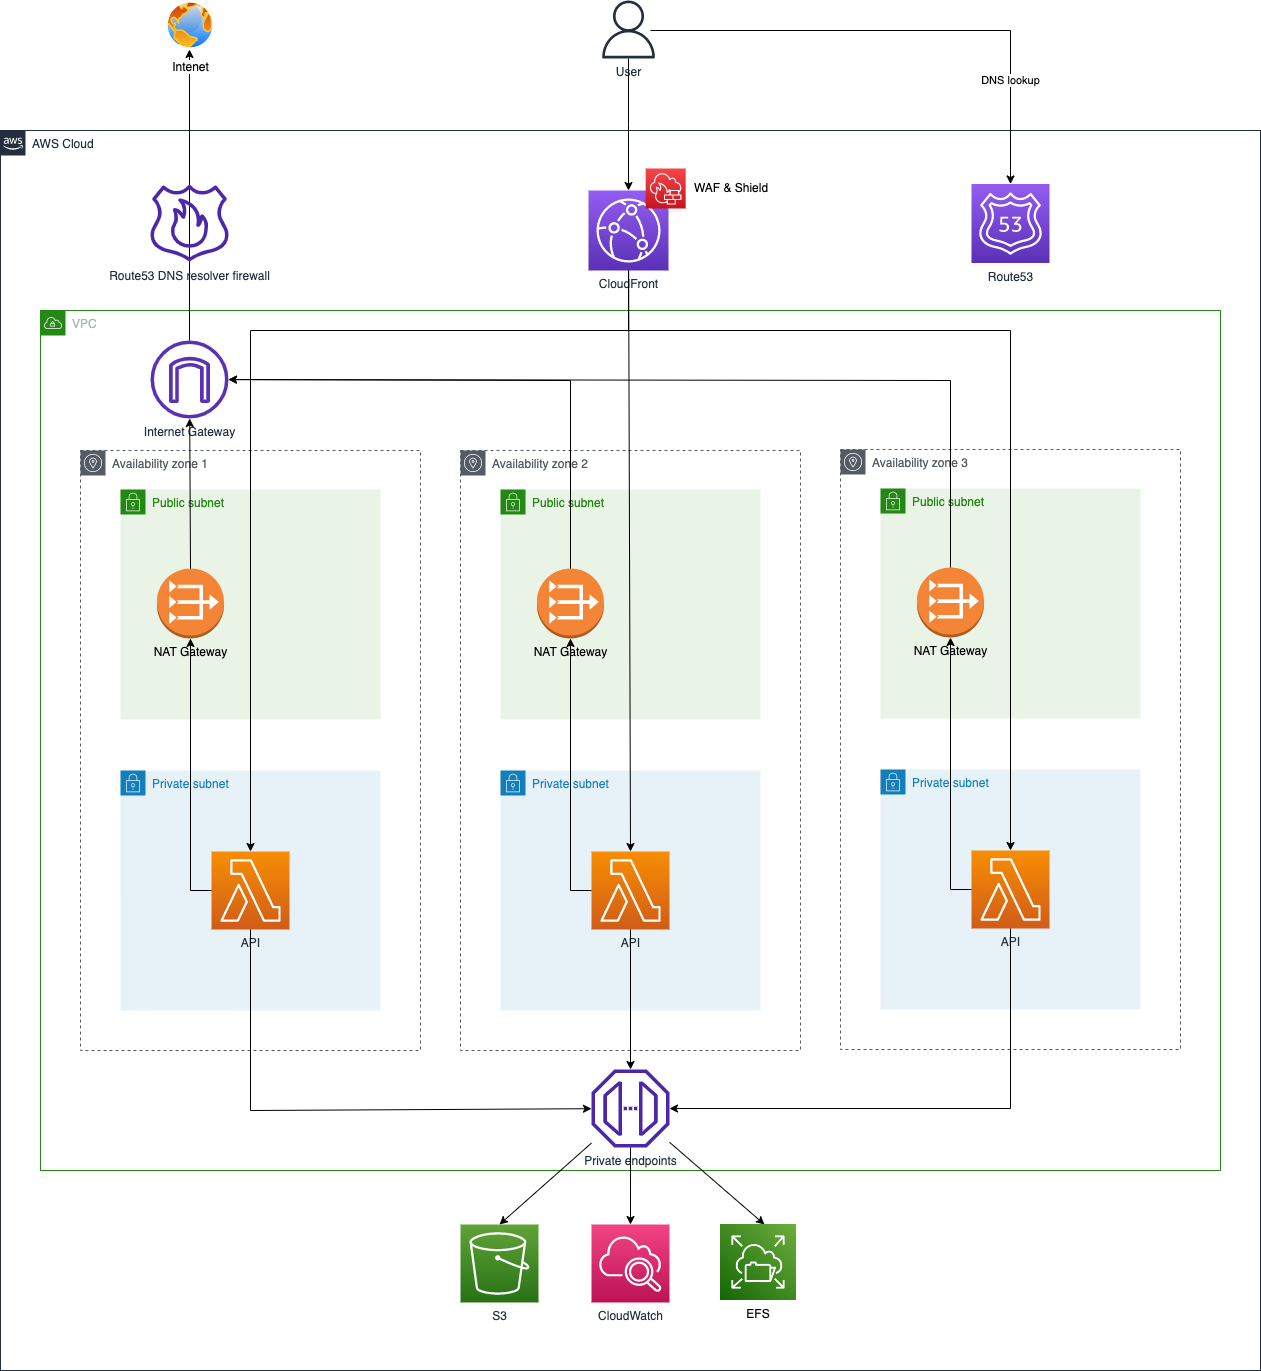
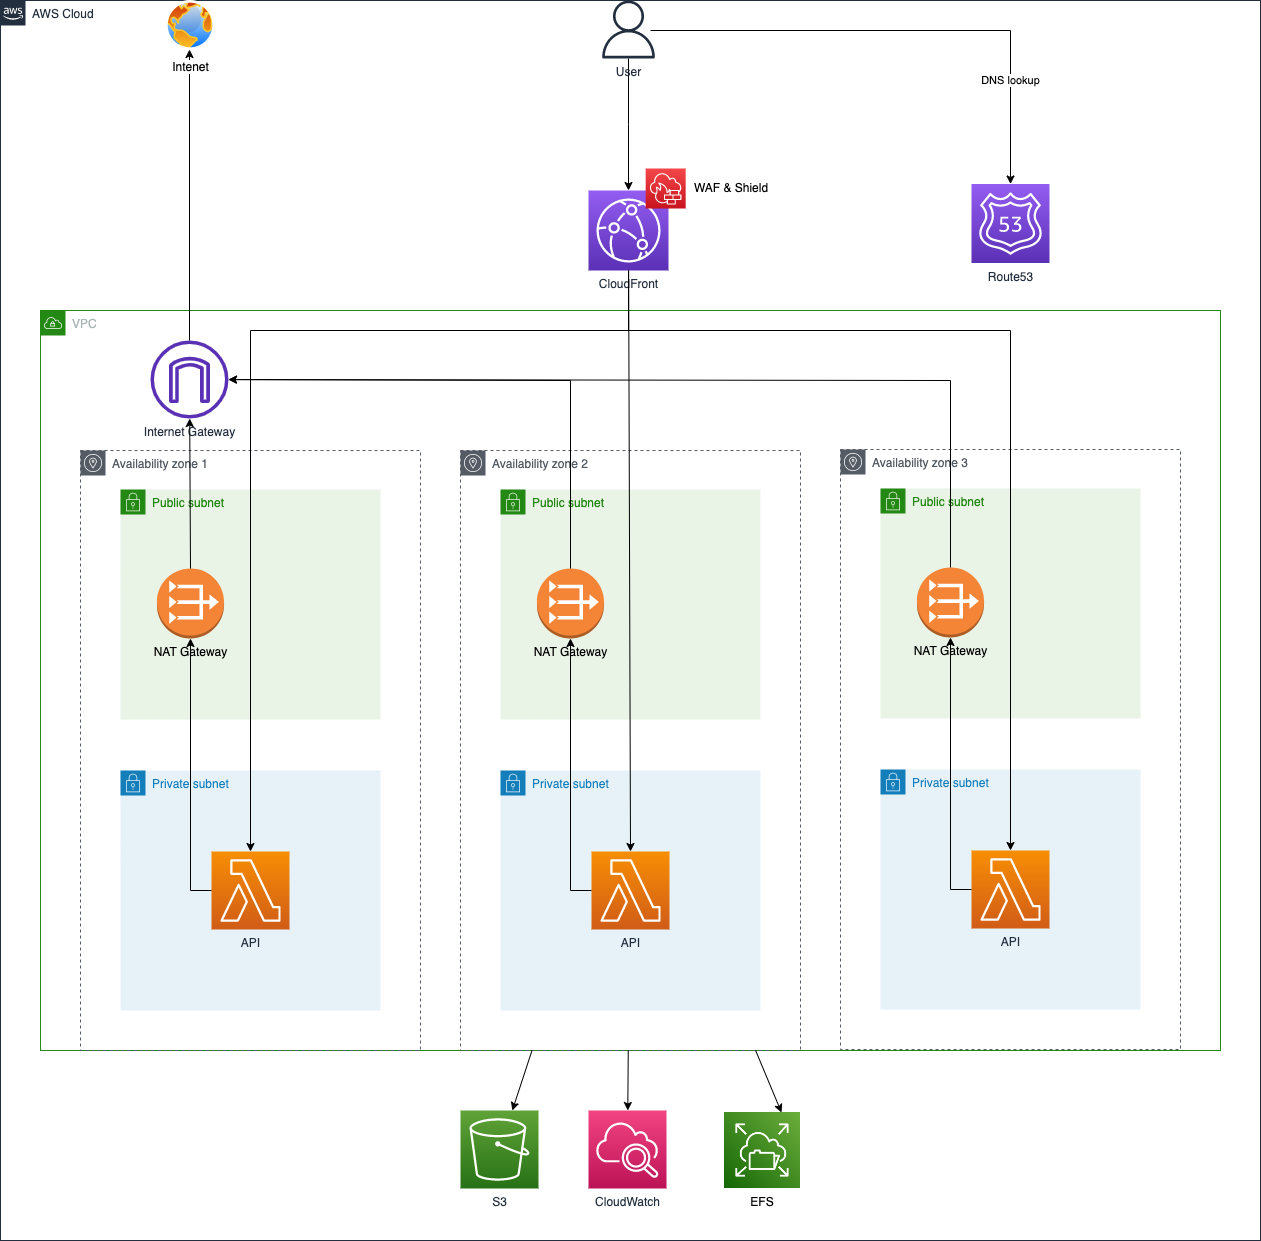
updated adr and img

diff --git a/README.md b/README.md
@@ -22,63 +22,3 @@ Trello board: https://trello.com/b/vptWzBnE/generate-privacy-statements-portage
 - If you want to use Google Analytics or to send feedback or link emails, you have to set up proper environment variables. Copy the `.env.example` file into `.env` and set the variables appropriately.
 - Next install the third party modules using `npm install`
 - You can now run the app locally! run `npm run dev` and then open a web browser to `localhost:3000`.
-
-# April 2023 Update
-
-## Running it locally
-At the moment, it is still possible to run locally, one way is simply running `npm run dev`
-
-
-As part of the Migration to AWS from Heroku, infrastructure for this was created and is hosted on AWS.
-
-## Requires
-- Terraform (https://www.terraform.io/)
-- Terragrunt (https://terragrunt.gruntwork.io/)
-
-## How is this repository structured?
-
-The Terraform code contained in `aws` is split into several independent modules that all use their own remote Terraform state file.These modules know nothing about Terragrunt and are used by Terragrunt as simple infrastructure definitions.
-
-The directory structure inside `aws` reflects the split into independent modules. For example, `ecr`, contains the lifecycle policy and configuration that creates the ECR that will be used by the `app (lambda)` module.
-
-At the moment, there is only a production environment in the `env` which contains the Terragrunt scripts.
-
-## What is each Terraform module
-
-`aws/app`
-
-Contains the Lambda function module that has read, write and root user access to the Elastic File System (EFS). Also contains lambda function url that is used by the cloudfront module.
-
-`aws/cloudfront`
-Contains:
-- Certificates: used to request a DNS validated certificate, deploy the required validation records and wait for validation to complete.
-- Cloudfront: creates an Cloudfront web distribution and contains HTTP response headers and their values.
-- IAM
-- Route53
-- S3: holds access logs
-- WAF: WAFv2 Web ACL resource
-
-`aws/ecr`
-Contains the Elastic Container Registry (ECR) Repository, that will hold the docker image
-
-`aws/efs`
-Contains resources to allow the storage for and access of the generated privacy statements
-
-`aws/hosted_zone`
-Manages Route53 Hosted Zone
-
-`aws/vpc`
-Contains the VPC module and ingress and egress rules. It allows the lambda function to be able to access the VPC.
-
-
-## Architectural Decision Record (ADR)
-
-Use a Docker image based AWS Lambda function to run the App, accessed using a Lambda Function URL. A Cloudfront distribution will then provide a custom URL and caching. Data storage will be provided by EFS.
-
-Using AWS Lambda with Cloudfront provides the following benefits:
-1. Highly available and scalable as it is using AWS Lambda.
-2. CloudFront will further improve the availability and performance by caching redirect responses and serving responses geographically close to the user.
-3. The use of Lambda Function URLs entirely removes the need to manage an API Gateway instance.
-4. Elastic File System (EFS) is used for storage. This required the least change from a code perspective. All we needed was a simple way to store and retrive the generated `.docx` file
-
-![Diagram of Simplify Privacy Statements App](./public/img/Simplify\_Privacy\_app\_ADR.png)

diff --git a/adr/2023-04-13-simplify-privacy-app-infrastructure.md b/adr/2023-04-13-simplify-privacy-app-infrastructure.md
@@ -1,0 +1,53 @@
+As part of the Migration to AWS from Heroku, infrastructure for this was created and is hosted on AWS.
+
+## Requires
+- Terraform (https://www.terraform.io/)
+- Terragrunt (https://terragrunt.gruntwork.io/)
+
+## How is this repository structured?
+
+The Terraform code contained in `aws` is split into several independent modules that all use their own remote Terraform state file. These modules know nothing about Terragrunt and are used by Terragrunt as simple infrastructure definitions.
+
+The directory structure inside `aws` reflects the split into independent modules. For example, `ecr`, contains the lifecycle policy and configuration that creates the ECR that will be used by the `app (lambda)` module.
+
+At the moment, there is only a production environment in the `env` which contains the Terragrunt scripts.
+
+## What is each Terraform module
+
+### [`aws/app`](terragrunt/aws/app)
+
+Contains the Lambda function module that has read, write and root user access to the Elastic File System (EFS). Also contains the lambda function url that is used by the cloudfront module.
+
+### [`aws/cloudfront`](terragrunt/aws/cloudfront)
+Contains:
+- Certificates: used to request a DNS validated certificate, deploy the required validation records and wait for validation to complete.
+- Cloudfront: creates a Cloudfront web distribution and contains HTTP response headers and their values.
+- IAM
+- Route53
+- S3: holds access logs
+- WAF: WAFv2 Web ACL resource
+
+### [`aws/ecr`](terragrunt/aws/ecr)
+Contains the Elastic Container Registry (ECR) Repository, that will hold the docker image
+
+### [`aws/efs`](terragrunt/aws/efs)
+Contains resources to allow the storage for and access of the generated privacy statements
+
+### [`aws/hosted_zone`](terragrunt/aws/hosted_zone)
+Manages Route53 Hosted Zone
+
+### [`aws/vpc`](terragrunt/aws/vpc)
+Contains the VPC module and ingress and egress rules. It allows the lambda function to be able to access other resources in the VPC.
+
+
+## Architectural Decision Record (ADR)
+
+Use a Docker image based AWS Lambda function to run the App, accessed using a Lambda Function URL. A Cloudfront distribution will then provide a custom URL and caching. Data storage will be provided by EFS.
+
+Using AWS Lambda with Cloudfront provides the following benefits:
+1. Highly available and scalable as it is using AWS Lambda.
+2. CloudFront will further improve the availability and performance by caching redirect responses and serving responses geographically close to the user.
+3. The use of Lambda Function URLs entirely removes the need to manage an API Gateway instance.
+4. Elastic File System (EFS) is used for storage. This required the least change from a code perspective. All we needed was a simple way to store and retrive the generated `.docx` file
+
+![Diagram of Simplify Privacy Statements App](../public/img/Simplify\_Privacy\_app\_ADR.png) 
